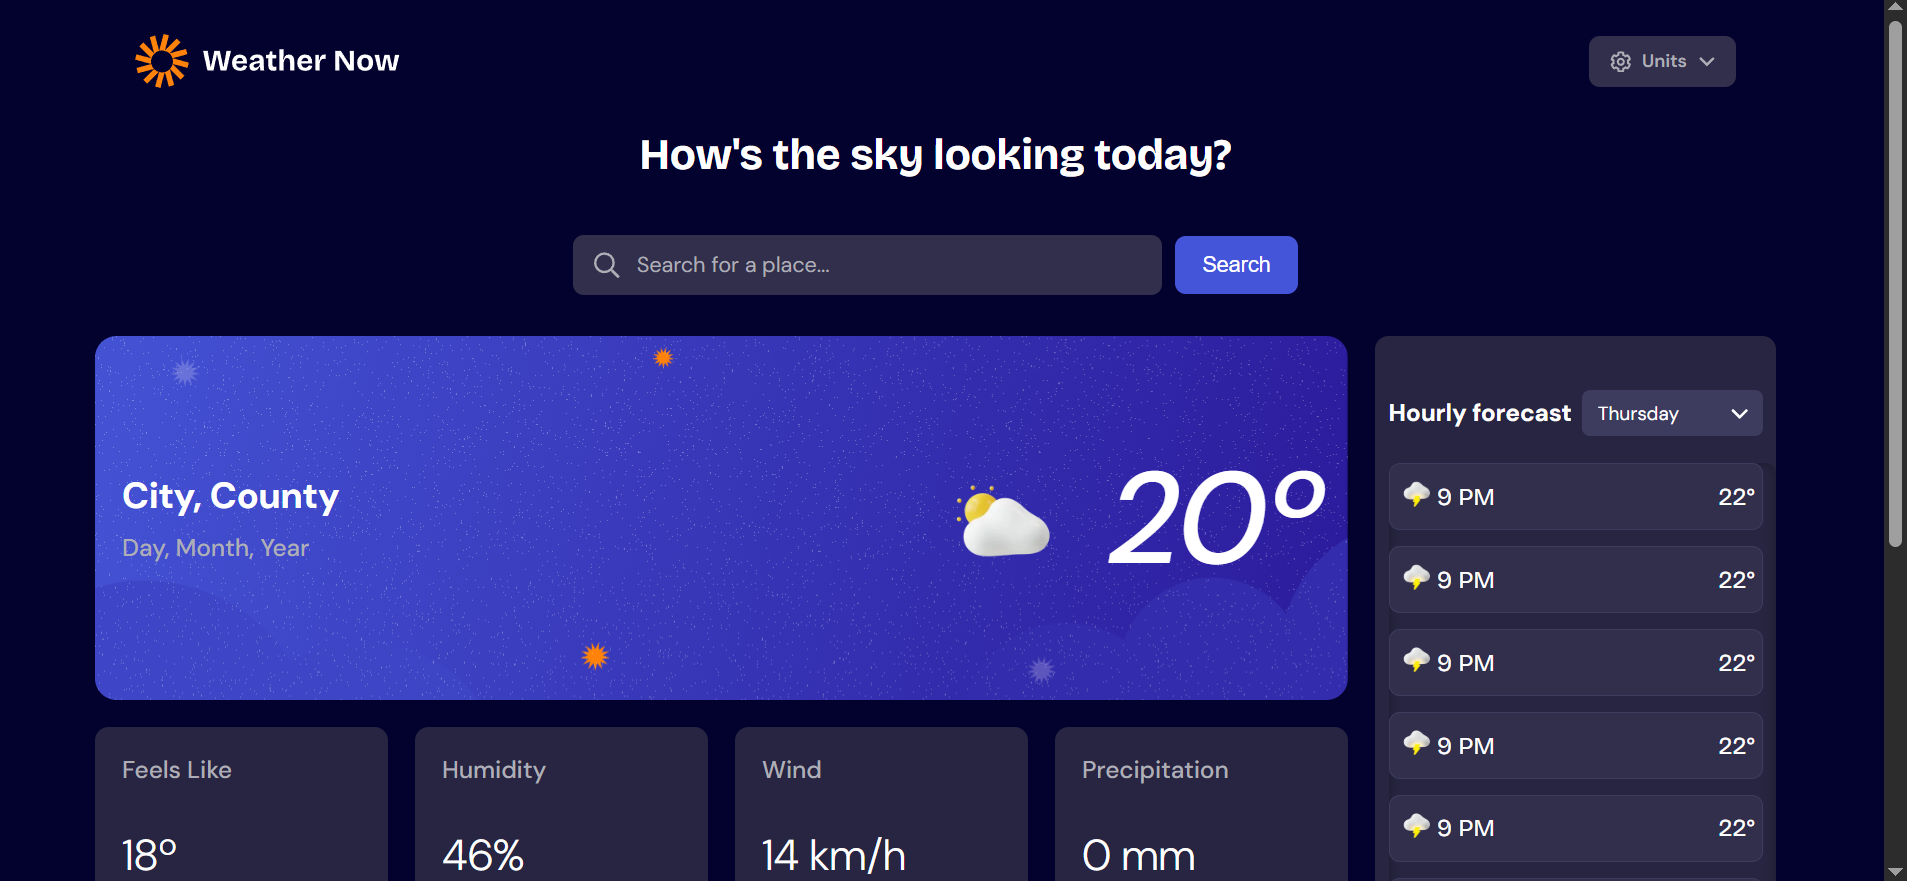
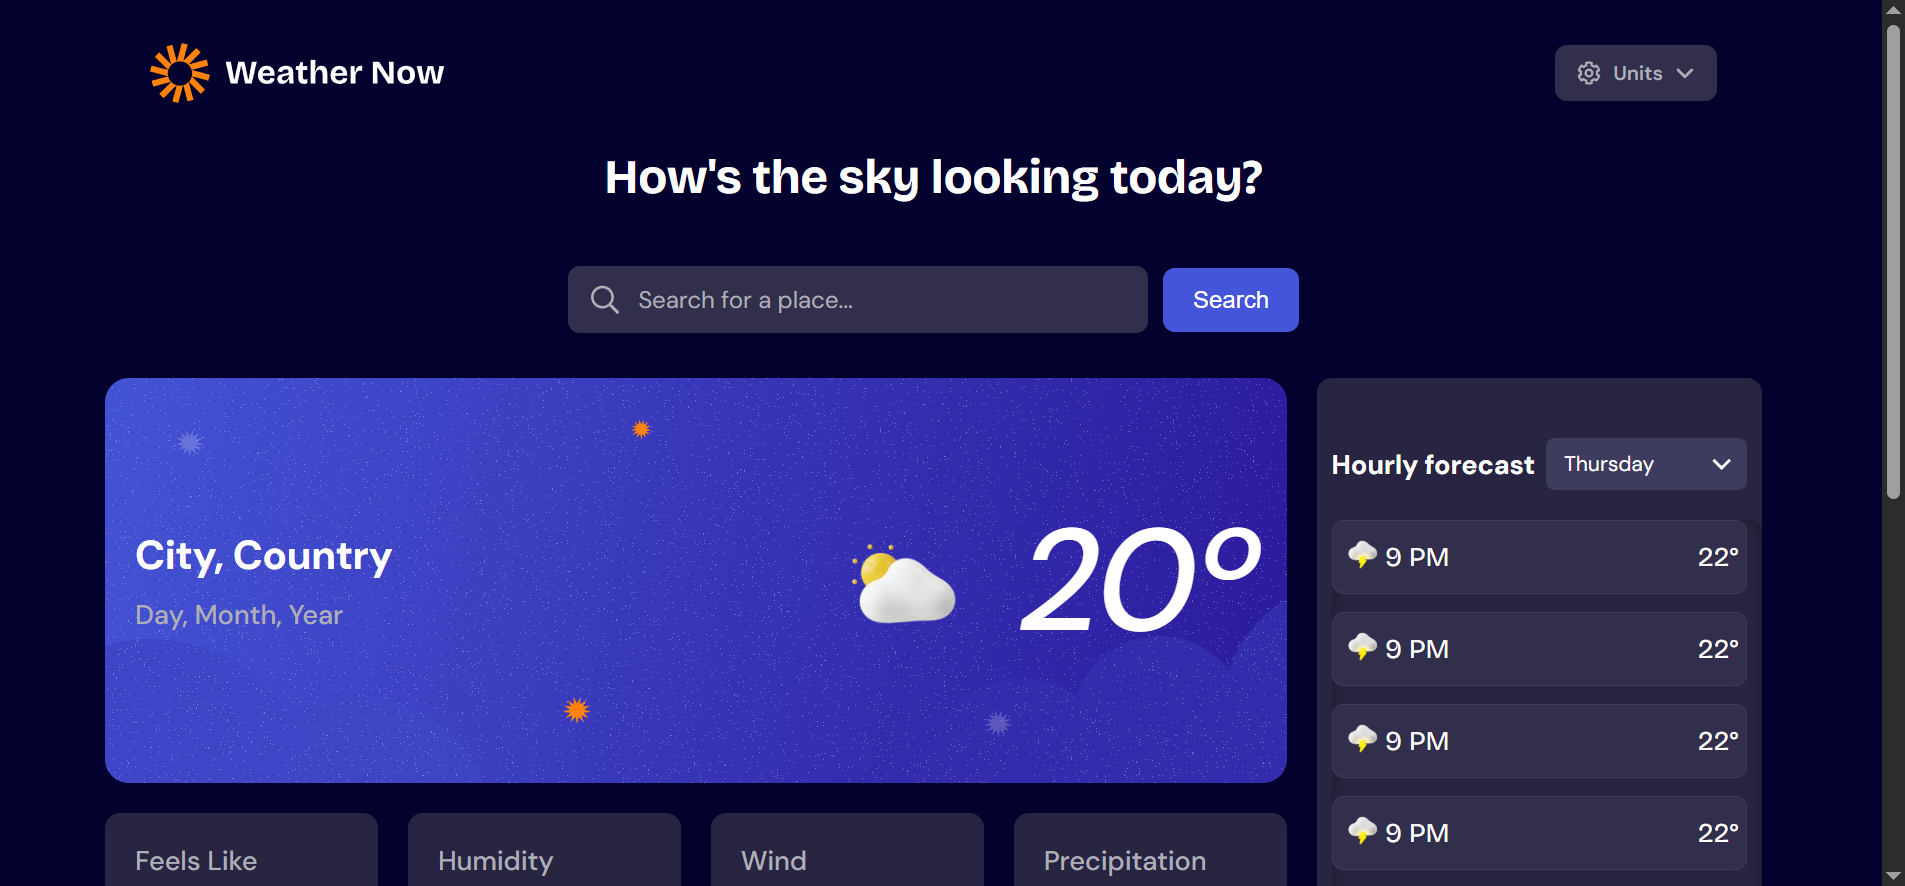
Update Readme

diff --git a/index.html b/index.html
@@ -96,7 +96,6 @@
           Please try again in a few minutes.
         </p>
       </section>
-      
       <section id="no-results" class="no-results hidden">
         <h2>No search result found!</h2>
       </section>
@@ -183,7 +182,7 @@
           <div id="div13">
             <div class="info-banner">
               <div class="city-date">
-                <h2>City, County</h2>
+                <h2>City, Country</h2>
                 <h4>Day, Month, Year</h4>
               </div>
               <div class="temp-banner">
